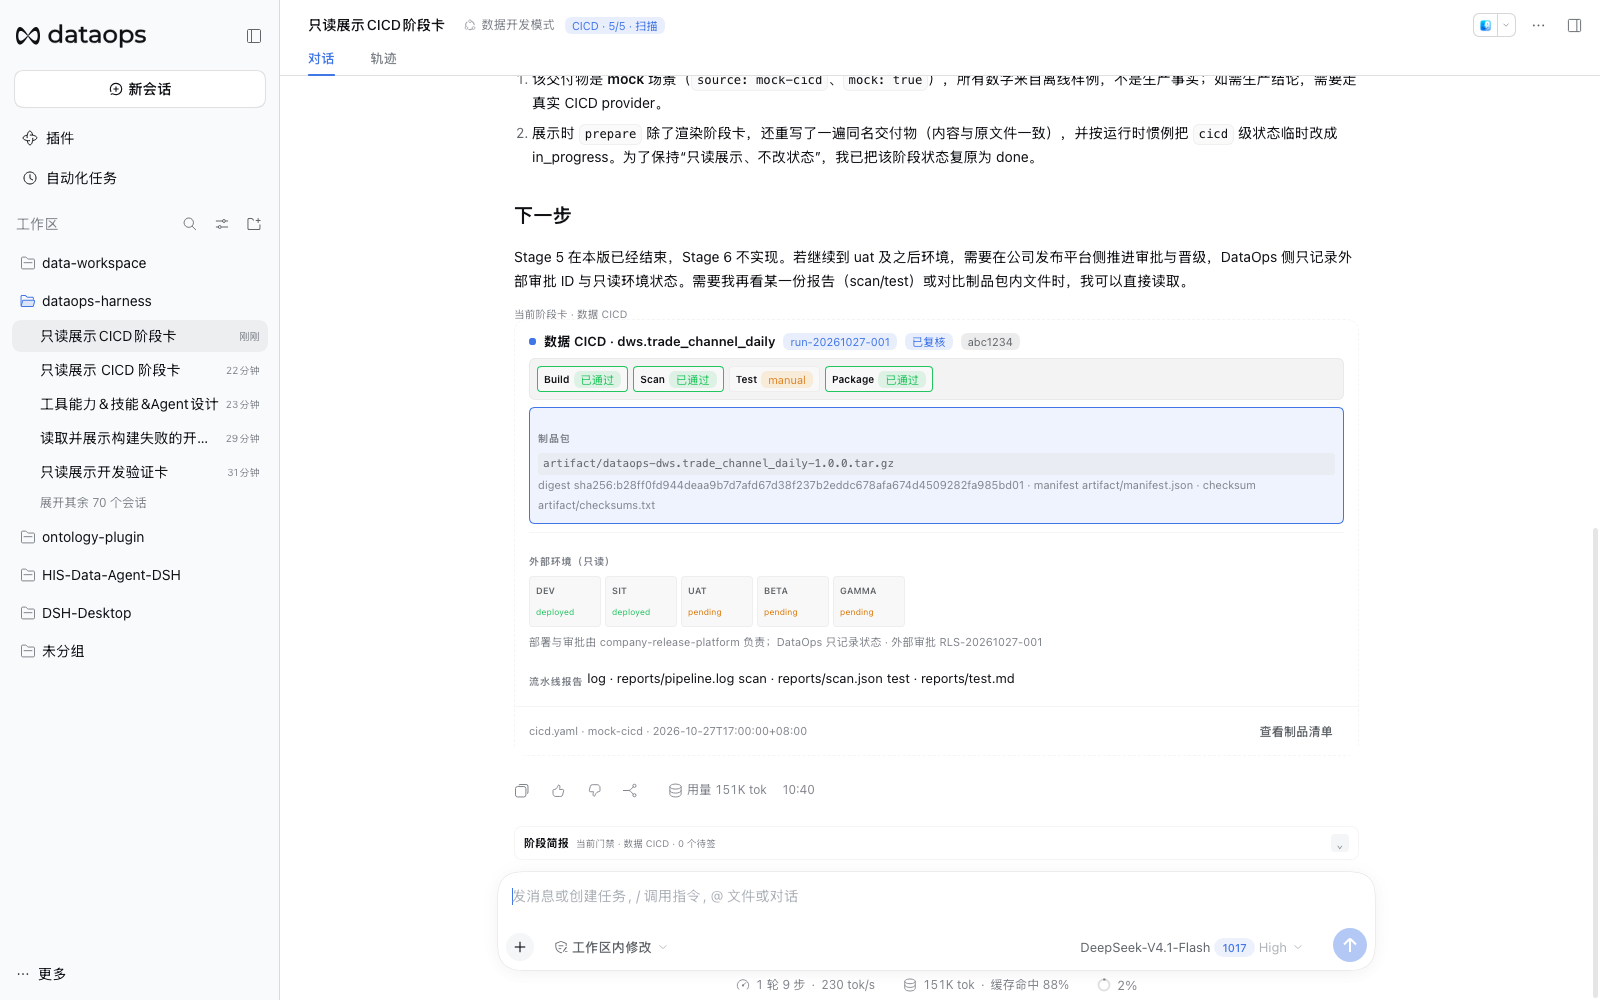
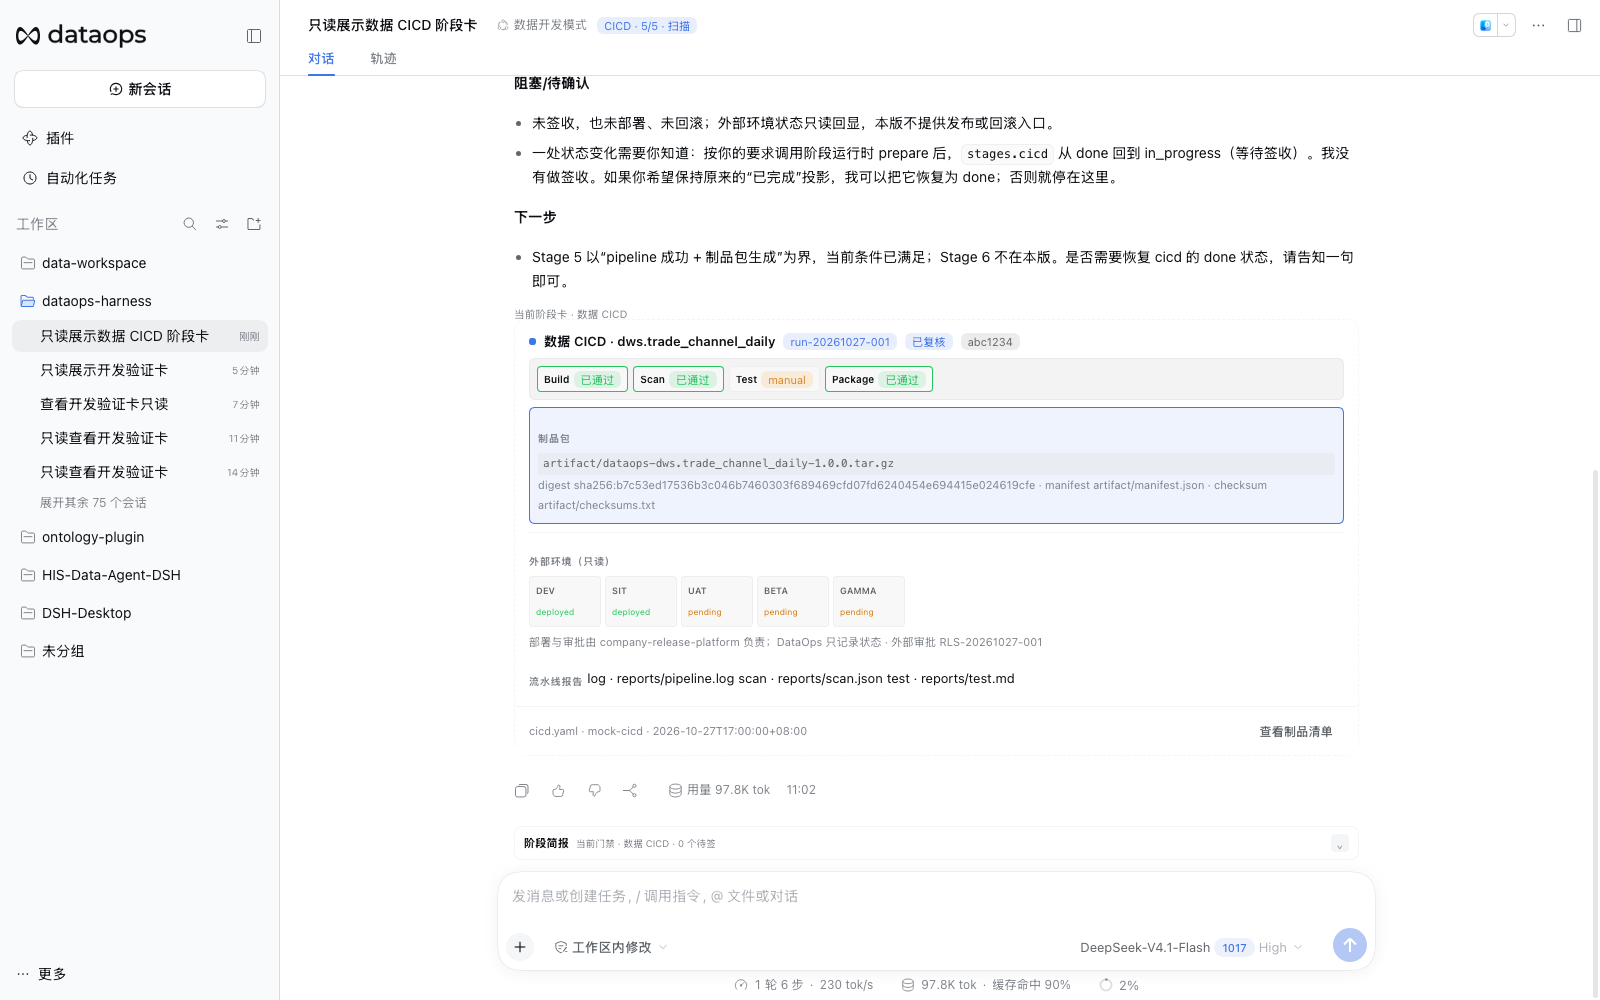
style: polish signoff feedback and failed build affordance

diff --git a/packages/dataops-client/src/cards.js b/packages/dataops-client/src/cards.js
@@ -200,7 +200,7 @@ export function createDataopsCards(React) {
     '.do-dev-attempt-line{font-size:9px;line-height:16px;color:var(--dsw-alias-label-tertiary,#81858c)}',
     '.do-dev-gates{margin-top:8px;padding-top:7px;border-top:1px solid var(--dsw-alias-border-l1,rgba(0,0,0,.06))}',
     '.do-dev-gate-row{display:flex;align-items:center;gap:6px;flex-wrap:wrap;margin-top:5px}',
-    '.do-dev-warning{margin-top:7px;padding:6px 8px;border-radius:6px;background:color-mix(in srgb,var(--dsw-alias-state-warn-primary,#f59e0b) 10%,transparent);color:var(--dsw-alias-state-warn-primary,#b45309);font-size:10px}',
+    '.do-dev-warning{display:flex;align-items:center;gap:8px;justify-content:space-between;margin-top:7px;padding:6px 8px;border-radius:6px;background:color-mix(in srgb,var(--dsw-alias-state-warn-primary,#f59e0b) 10%,transparent);color:var(--dsw-alias-state-warn-primary,#b45309);font-size:10px}',
     '.do-dev-artifacts{display:flex;gap:4px;align-items:center;flex-wrap:wrap;margin-top:7px}',
     '.do-cicd-pipeline{display:flex;gap:5px;flex-wrap:wrap;margin:7px 0;padding:7px;border:1px solid var(--dsw-alias-border-l1,rgba(0,0,0,.07));border-radius:8px;background:var(--dsw-alias-bg-l2,#f7f8fa)}',
     '.do-cicd-step{display:flex;align-items:center;gap:4px;padding:2px 6px;border-radius:5px;background:var(--dsw-alias-bg-overlay,#fff);border:1px solid var(--dsw-alias-border-l1,rgba(0,0,0,.07))}',
@@ -227,6 +227,7 @@ export function createDataopsCards(React) {
     '.do-asset-meta{font-size:9px;color:var(--dsw-alias-label-tertiary,#81858c);margin-top:3px}',
     '.do-asset-fields{display:flex;gap:3px;flex-wrap:wrap;margin-top:5px}',
     '.do-asset-fields .do-chip{font-size:8.5px;padding:1px 4px}',
+    '.do-signoff-toast{position:fixed;left:50%;bottom:22px;transform:translateX(-50%);z-index:150;border:1px solid var(--dsw-alias-state-success-primary,#22c55e);background:var(--dsw-alias-bg-layer-1,#fff);color:var(--dsw-alias-label-primary,#0f1115);border-radius:8px;padding:7px 12px;font-size:11px;box-shadow:0 6px 24px rgba(15,23,42,.16)}',
     '.do-signoff-host-mask{position:fixed;inset:0;z-index:140;background:rgba(15,23,42,.42);display:flex;align-items:center;justify-content:center;padding:24px}',
     '.do-signoff-host{width:min(560px,calc(100vw - 32px));background:var(--dsw-alias-bg-layer-1,#fff);color:var(--dsw-alias-label-primary,#0f1115);border:1px solid var(--dsw-alias-border-l2,rgba(0,0,0,.16));border-radius:12px;box-shadow:0 18px 60px rgba(15,23,42,.28);padding:14px}',
     '.do-signoff-host-head{display:flex;align-items:center;gap:8px}',
@@ -1046,7 +1047,6 @@ export function createDataopsCards(React) {
         m.merge && m.merge.commit ? h(Pill, { key: 'commit' }, m.merge.commit) : null
       ],
       footer: [h('span', { key: 'meta', className: 'do-muted do-meta' }, metaLine(m, 'develop.yaml')),
-        buildFailed ? h(Btn, { key: 'retry', variant: 'primary', onClick: retryBuild }, '重新编译') : null,
         h(Btn, { key: 'open', variant: 'ghost', onClick: function () { artifact[1](true) } }, '查看产物')]
     },
       h('dl', { className: 'do-grid' },
@@ -1088,7 +1088,7 @@ export function createDataopsCards(React) {
           }))
         }))
       ) : null,
-      buildFailed ? h('div', { className: 'do-dev-warning' }, 'Build 未通过：CICD/合入前必须先修复并重新验证。') : null,
+      buildFailed ? h('div', { className: 'do-dev-warning' }, h('span', null, 'Build 未通过：CICD/合入前必须先修复并重新验证。'), h(Btn, { key: 'retry', variant: 'primary', onClick: retryBuild }, '重新编译')) : null,
       tasks.length ? h('div', null,
         h('div', { className: 'do-label' }, '任务'),
         tasks.map(function (task, i) {

diff --git a/packages/dataops-client/src/index.js b/packages/dataops-client/src/index.js
@@ -168,6 +168,8 @@ function apply(ctx) {
   function SignoffRequestHost() {
     var requestState = React.useState(null)
     var request = requestState[0]
+    var noticeState = React.useState(null)
+    var notice = noticeState[0]
     React.useEffect(function () {
       var onRequest = function (event) {
         var detail = (event && event.detail) || {}
@@ -178,7 +180,7 @@ function apply(ctx) {
       window.addEventListener('dataops:signoff-request', onRequest)
       return function () { window.removeEventListener('dataops:signoff-request', onRequest) }
     }, [])
-    if (!request) return null
+    if (!request && !notice) return null
     var text = '【签收】gate=' + request.gate + ' role=' + request.role + ' actionId=' + request.actionId + ' actor=' + request.actor + (request.comment ? ' comment=' + request.comment : '')
     function sendViaAgent() {
       if (typeof window.__dataopsCompose === 'function') window.__dataopsCompose(text)
@@ -209,12 +211,18 @@ function apply(ctx) {
       }).then(function (body) {
         if (!body || body.ok !== true) throw new Error('signoff route rejected')
         window.dispatchEvent(new CustomEvent('dataops:signoff-recorded', { detail: { workitem: body.workitem } }))
+        noticeState[1]('签收已记录，阶段状态已刷新')
+        window.setTimeout(function () { noticeState[1](null) }, 2600)
       }).catch(function () { sendViaAgent() })
     }
     function copy() {
       if (navigator.clipboard) navigator.clipboard.writeText(text)
     }
-    return React.createElement('div', { className: 'do-signoff-host-mask', onClick: function (e) { if (e.target === e.currentTarget) requestState[1](null) } },
+    var toast = notice
+      ? React.createElement('div', { className: 'do-signoff-toast', role: 'status' }, notice)
+      : null
+    return React.createElement(React.Fragment, null, toast,
+      request ? React.createElement('div', { className: 'do-signoff-host-mask', onClick: function (e) { if (e.target === e.currentTarget) requestState[1](null) } },
       React.createElement('div', { className: 'do-signoff-host' },
         React.createElement('div', { className: 'do-signoff-host-head' },
           React.createElement('span', { className: 'do-signoff-host-title' }, '确认签收'),
@@ -228,7 +236,7 @@ function apply(ctx) {
           React.createElement('button', { type: 'button', className: 'do-signoff-host-btn', onClick: function () { requestState[1](null) } }, '取消'),
           React.createElement('button', { type: 'button', className: 'do-signoff-host-btn do-signoff-host-primary', onClick: fill }, '签收并提交')
         )
-      )
+      )) : null
     )
   }
   slots.inject('conversation.input.dock', function () {

diff --git a/packages/dataops-client/src/brief.js b/packages/dataops-client/src/brief.js
@@ -334,7 +334,7 @@ export function createStageBrief(React, store, contextStore) {
         onClick: function () { expandedState[1](!expanded) }
       },
         h('span', { className: 'do-stagebar-title' }, '阶段简报'),
-        h('span', { className: 'do-stagebar-hint' }, action ? '当前门禁 · ' + action.spec.label + (action.blocking ? ' · 待补证' : ' · ' + action.pending.length + ' 个待签') : '查看阶段进度与历史卡'),
+        h('span', { className: 'do-stagebar-hint' }, action ? '当前门禁 · ' + action.spec.label + (action.blocking ? ' · 待补证' : ' · ' + action.pending.length + ' 个待签') : '当前阶段已完成 · 展开查看阶段卡'),
         h('span', { className: 'do-stagebar-caret', 'data-expanded': expanded ? 'true' : 'false', 'aria-hidden': 'true' }, '⌄')
       ),
       expanded ? h('div', { className: 'do-stagebar-stages' },
